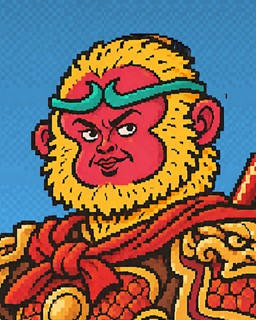
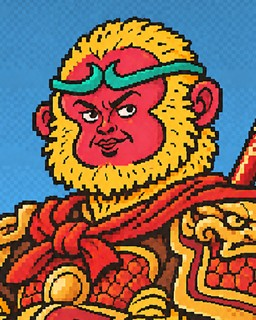
웹 업데이트 2026-11-28 15:49

diff --git a/index.html b/index.html
@@ -9,7 +9,7 @@
   <link rel="preload" href="fonts/Sam3KRFont.woff" as="font" type="font/woff" crossorigin><!-- 글꼴을 가장 먼저 받기 시작 -->
   <link rel="preload" href="img/loading.png" as="image"><!-- 로딩 그림도 먼저 -->
   <link rel="icon" type="image/svg+xml" href="img/favicon.svg">
-<link rel="stylesheet" href="style.css?v=20261128154238">
+<link rel="stylesheet" href="style.css?v=20261128154921">
 </head>
 <body class="loading">
   <header class="win titlebar">
@@ -197,24 +197,24 @@
 
   <script src="https://cdn.jsdelivr.net/npm/@supabase/supabase-js@2.45.4/dist/umd/supabase.min.js"></script>
   <script src="https://accounts.google.com/gsi/client" async></script><!-- 구글 로그인 단추 -->
-  <script src="server.js?v=20261128154238"></script>
-  <script src="mapcore.js?v=20261128154238"></script>
-  <script src="data/map.js?v=20261128154238"></script>
-  <script src="rules.js?v=20261128154238"></script>
-  <script src="faces.js?v=20261128154238"></script>
-  <script src="patchnotes.js?v=20261128154238"></script>
+  <script src="server.js?v=20261128154921"></script>
+  <script src="mapcore.js?v=20261128154921"></script>
+  <script src="data/map.js?v=20261128154921"></script>
+  <script src="rules.js?v=20261128154921"></script>
+  <script src="faces.js?v=20261128154921"></script>
+  <script src="patchnotes.js?v=20261128154921"></script>
   <!-- 시즌별 패치노트: 옛 시즌부터 (마지막 줄이 최신) -->
-  <script src="patchnotes/s3.js?v=20261128154238"></script>
-  <script src="patchnotes/s4.js?v=20261128154238"></script>
-  <script src="patchnotes/s5.js?v=20261128154238"></script>
-  <script src="patchnotes/s6.js?v=20261128154238"></script>
-  <script src="patchnotes/s7.js?v=20261128154238"></script>
-  <script src="patchnotes/s8.js?v=20261128154238"></script>
-  <script src="patchnotes/s9.js?v=20261128154238"></script>
-  <script src="mapbg.js?v=20261128154238"></script>
-  <script src="map.js?v=20261128154238"></script>
-  <script src="engine.js?v=20261128154238"></script>
-  <script src="game.js?v=20261128154238"></script>
-  <script src="help.js?v=20261128154238"></script><!-- 새 도움말 (2026-11-25) -->
+  <script src="patchnotes/s3.js?v=20261128154921"></script>
+  <script src="patchnotes/s4.js?v=20261128154921"></script>
+  <script src="patchnotes/s5.js?v=20261128154921"></script>
+  <script src="patchnotes/s6.js?v=20261128154921"></script>
+  <script src="patchnotes/s7.js?v=20261128154921"></script>
+  <script src="patchnotes/s8.js?v=20261128154921"></script>
+  <script src="patchnotes/s9.js?v=20261128154921"></script>
+  <script src="mapbg.js?v=20261128154921"></script>
+  <script src="map.js?v=20261128154921"></script>
+  <script src="engine.js?v=20261128154921"></script>
+  <script src="game.js?v=20261128154921"></script>
+  <script src="help.js?v=20261128154921"></script><!-- 새 도움말 (2026-11-25) -->
 </body>
 </html>

diff --git a/game.js b/game.js
@@ -2187,7 +2187,7 @@ function tourOpenDuel(T, m) {
   tourCloseDuel();
   const w = document.createElement('div');
   w.id = 'duelWrap';
-  w.innerHTML = `<div class="duelBox"><div class="duelBar"><span>${tourIcon(T)} ${tourMatchName(m.slot)} · ${esc(m.names[0])} vs ${esc(m.names[1])}</span><button class="duelClose">✕ 대진표로</button></div><iframe src="duel.html?v=20261128154238&kind=${tourKind(T)}#web&id=${T.id}-${m.slot}" title="무술대회 경기"></iframe></div>`;
+  w.innerHTML = `<div class="duelBox"><div class="duelBar"><span>${tourIcon(T)} ${tourMatchName(m.slot)} · ${esc(m.names[0])} vs ${esc(m.names[1])}</span><button class="duelClose">✕ 대진표로</button></div><iframe src="duel.html?v=20261128154921&kind=${tourKind(T)}#web&id=${T.id}-${m.slot}" title="무술대회 경기"></iframe></div>`;
   w.querySelector('.duelClose').onclick = tourCloseDuel;
   document.body.appendChild(w); fitDuel(w);
   bgmHold(true);
@@ -2197,7 +2197,7 @@ function tourOpenPractice(kind = 'martial') { // kind: 'debate'면 설전 연습
   tourCloseDuel();
   const w = document.createElement('div');
   w.id = 'duelWrap';
-  w.innerHTML = `<div class="duelBox"><div class="duelBar"><span>${kind === 'debate' ? '🗣 설전 연습' : '🥋 연습 경기'}</span><button class="duelClose">✕ 닫기</button></div><iframe src="duel.html?v=20261128154238&kind=${kind}#practice" title="연습 경기"></iframe></div>`;
+  w.innerHTML = `<div class="duelBox"><div class="duelBar"><span>${kind === 'debate' ? '🗣 설전 연습' : '🥋 연습 경기'}</span><button class="duelClose">✕ 닫기</button></div><iframe src="duel.html?v=20261128154921&kind=${kind}#practice" title="연습 경기"></iframe></div>`;
   w.querySelector('.duelClose').onclick = tourCloseDuel;
   document.body.appendChild(w); fitDuel(w);
   bgmHold(true);
@@ -2207,7 +2207,7 @@ function tourOpenRules() {
   tourCloseDuel();
   const w = document.createElement('div');
   w.id = 'duelWrap';
-  w.innerHTML = `<div class="duelBox"><div class="duelBar"><span>📖 ${tourName(tourT())} 규칙</span><button class="duelClose">✕ 대진표로</button></div><iframe src="duel.html?v=20261128154238&kind=${tourKind(tourT())}#rules" title="대회 규칙"></iframe></div>`;
+  w.innerHTML = `<div class="duelBox"><div class="duelBar"><span>📖 ${tourName(tourT())} 규칙</span><button class="duelClose">✕ 대진표로</button></div><iframe src="duel.html?v=20261128154921&kind=${tourKind(tourT())}#rules" title="대회 규칙"></iframe></div>`;
   w.querySelector('.duelClose').onclick = tourCloseDuel;
   document.body.appendChild(w); fitDuel(w);
 }

diff --git a/duel.html b/duel.html
@@ -4,7 +4,7 @@
 <meta charset="utf-8">
 <meta name="viewport" content="width=device-width, initial-scale=1">
 <title>무술대회</title>
-<link rel="stylesheet" href="style.css?v=20261128154238">
+<link rel="stylesheet" href="style.css?v=20261128154921">
 <!-- 무술대회 대결 화면 (웹, 2026-11-14). 게임 화면(game.js tourOpenDuel)이 iframe으로 띄운다: duel.html#web&id=경기id
      lab/martial.html(연구용)에서 만들었다. 규칙은 duel_rules.js, 판정·손패는 서버(duel_core.js)가 한다.
      서버와는 부모 창(게임)의 로그인을 그대로 쓴다: parent.api('duelView'|'duelAct'), parent.sb(실시간 알림 'duel-경기id') -->
@@ -278,7 +278,7 @@
   </div>
 </div>
 
-<script src="duel_rules.js?v=20261128154238"></script>
+<script src="duel_rules.js?v=20261128154921"></script>
 <script>
 // ↓ game.js와 같은 글자 손질 (2026-11-15 기획자: 경기장·규칙 창에도 물결 내리기 적용). game.js 쪽을 바꾸면 여기도
 // 가운데 점 붙이기·물결 내리기 (2026-11-03, 삼국지3글꼴): 이 글꼴은 '·' 자체가 넓어서 양옆 띄어쓰기를 화면에서 뺀다 ("통솔 87 · 무력" → "통솔 87·무력").

diff --git a/rogue.html b/rogue.html
@@ -4,7 +4,7 @@
 <meta charset="utf-8">
 <meta name="viewport" content="width=device-width, initial-scale=1">
 <title>맹장집결</title>
-<link rel="stylesheet" href="style.css?v=20261128154238">
+<link rel="stylesheet" href="style.css?v=20261128154921">
 <!-- 무술대회 카드 대결 연구용 (2026-11-14). 로컬 전용: tools/make_web.sh 목록에 없어서 웹에 올라가지 않는다.
      규칙 (기획자 2026-11-14 확정):
      - 동시 제출. 카드 9종 = 속공·강타·역습 × 소·중·대 (2026-11-14 공격·기술·방어에서 이름 바꿈). 상성 속공 > 강타 > 역습 > 속공. 같은 종류면 대 > 중 > 소, 같으면 비김
@@ -335,8 +335,8 @@
   </div>
 </div>
 
-<script src="duel_rules.js?v=20261128154238"></script>
-<script src="rogue_rules.js?v=20261128154238"></script>
+<script src="duel_rules.js?v=20261128154921"></script>
+<script src="rogue_rules.js?v=20261128154921"></script>
 <!-- 인트로 소리 (파일로 열어도 되게 글자로) -->
 <script>
 'use strict';

diff --git a/privacy.html b/privacy.html
@@ -5,7 +5,7 @@
 <meta name="viewport" content="width=device-width, initial-scale=1">
 <title>개인정보 처리방침 - 땅국지</title>
 <link rel="icon" type="image/svg+xml" href="img/favicon.svg">
-<link rel="stylesheet" href="style.css?v=20261128154238">
+<link rel="stylesheet" href="style.css?v=20261128154921">
 <style>
   body { padding: 16px; }
   .doc { max-width: 760px; margin: 0 auto; line-height: 1.6; }

diff --git a/terms.html b/terms.html
@@ -5,7 +5,7 @@
 <meta name="viewport" content="width=device-width, initial-scale=1">
 <title>이용약관 - 땅국지</title>
 <link rel="icon" type="image/svg+xml" href="img/favicon.svg">
-<link rel="stylesheet" href="style.css?v=20261128154238">
+<link rel="stylesheet" href="style.css?v=20261128154921">
 <style>
   body { padding: 16px; }
   .doc { max-width: 760px; margin: 0 auto; line-height: 1.6; }

diff --git a/faces.js b/faces.js
@@ -5,7 +5,7 @@
 
 // chat: 채팅 닉네임 색 (2026-10-30, 얼굴 그림의 키컬러를 어두운 바탕에서 읽히게 밝게)
 // 얼굴 그림을 바꾸면 FACE_V 숫자를 올린다 (브라우저가 예전 그림을 기억하지 않게)
-const FACE_V = 14;
+const FACE_V = 15;
 
 const FACES = [
   { id: 'm1', name: '무관 1', style: '무관', chat: '#f5a060' },
